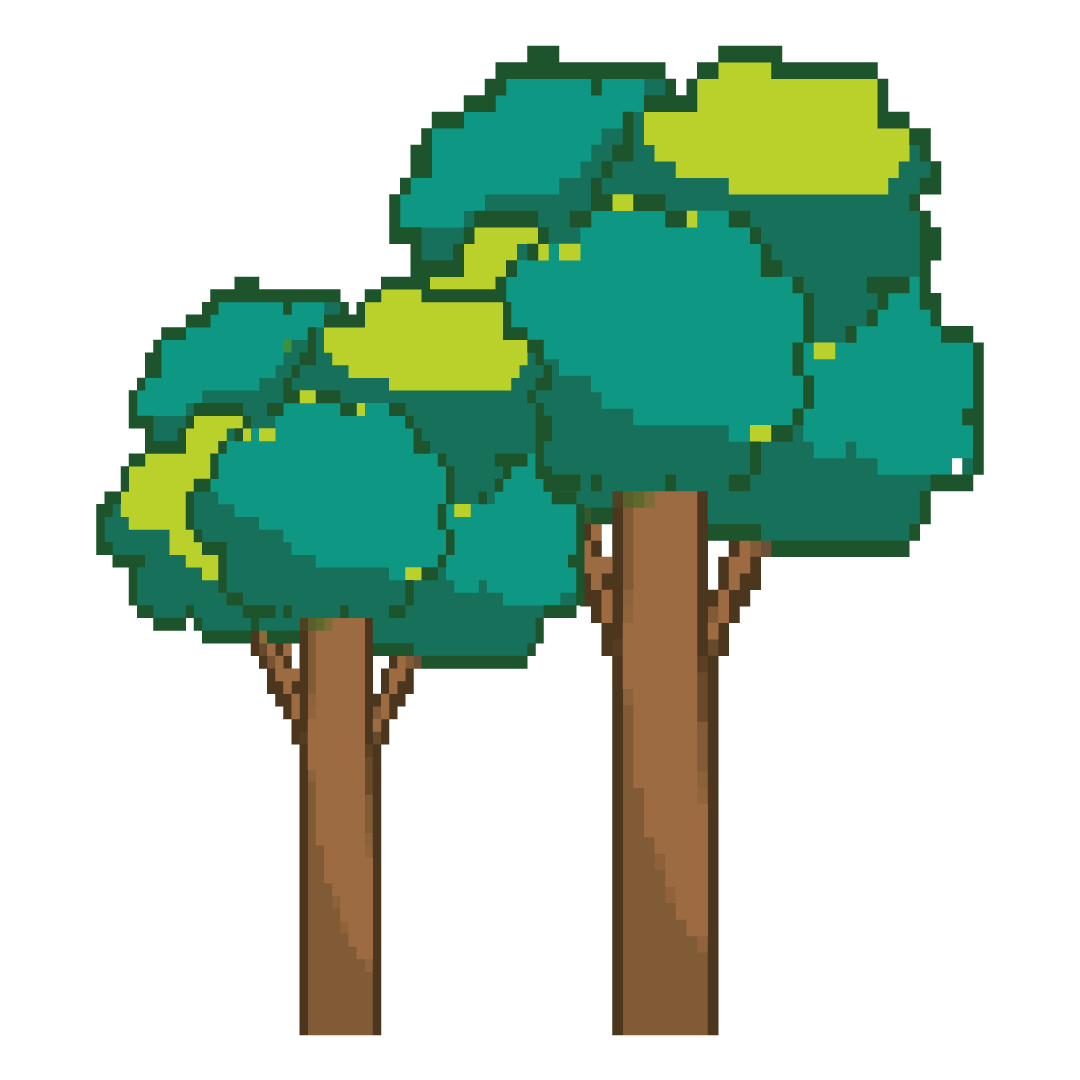
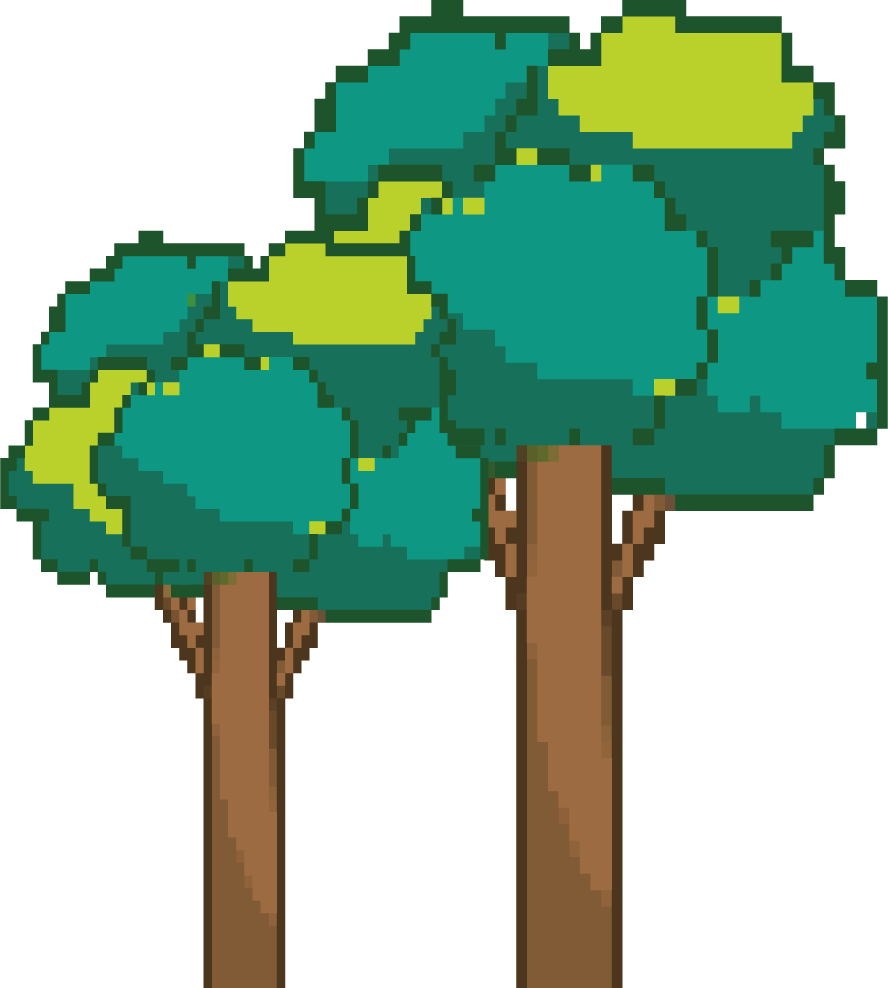
Happy little trees !

diff --git a/src/components/Game.jsx b/src/components/Game.jsx
@@ -13,6 +13,7 @@ import StartButton from './StartButton';
 import Mountain from './Mountain';
 import Cloud from './Cloud';
 import Rock from './Rock';
+import Tree from './Tree';
 
 import { addObstacle } from '../slices/obstacleSlice';
 import { reset } from '../slices/gameSlice';
@@ -123,6 +124,9 @@ function Game() {
         <Mountain x={0.9 * width} y={height - 170} scale={0.65} />
         <Mountain x={width} y={height - 170} scale={0.4} />
         <Rock x={width} y={height - 170} scale={0.5} />
+        <Tree x={0.1 * width} y={height - 170} scale={0.15} />
+        <Tree x={0.3 * width} y={height} scale={0.25} />
+        <Tree x={0.9 * width} y={height * 0.86} scale={0.2} />
       </Container>
       <Container>
         <DaveoLogo x={0.1 * width} y={0.2 * height} scale={0.1} />

diff --git a/src/components/Tree.jsx b/src/components/Tree.jsx
@@ -1,0 +1,16 @@
+import React from 'react';
+import { Sprite } from '@inlet/react-pixi';
+import PropTypes from 'prop-types';
+import treeImage from '../images/tree.png';
+
+export default function Tree({ x, y, scale }) {
+  return (
+    <Sprite image={treeImage} scale={scale} x={x} y={y} anchor={(0.5, 1)} />
+  );
+}
+
+Tree.propTypes = {
+  x: PropTypes.number.isRequired,
+  y: PropTypes.number.isRequired,
+  scale: PropTypes.number.isRequired,
+};
